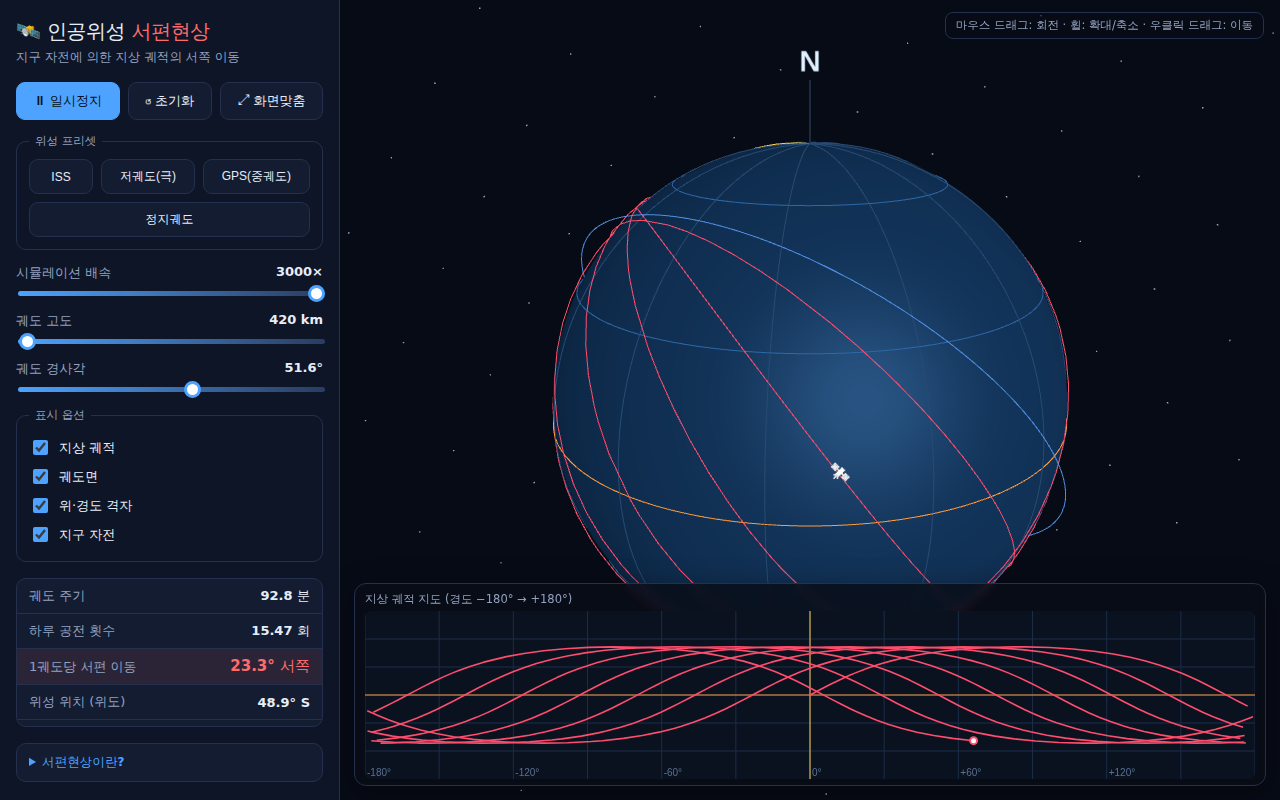
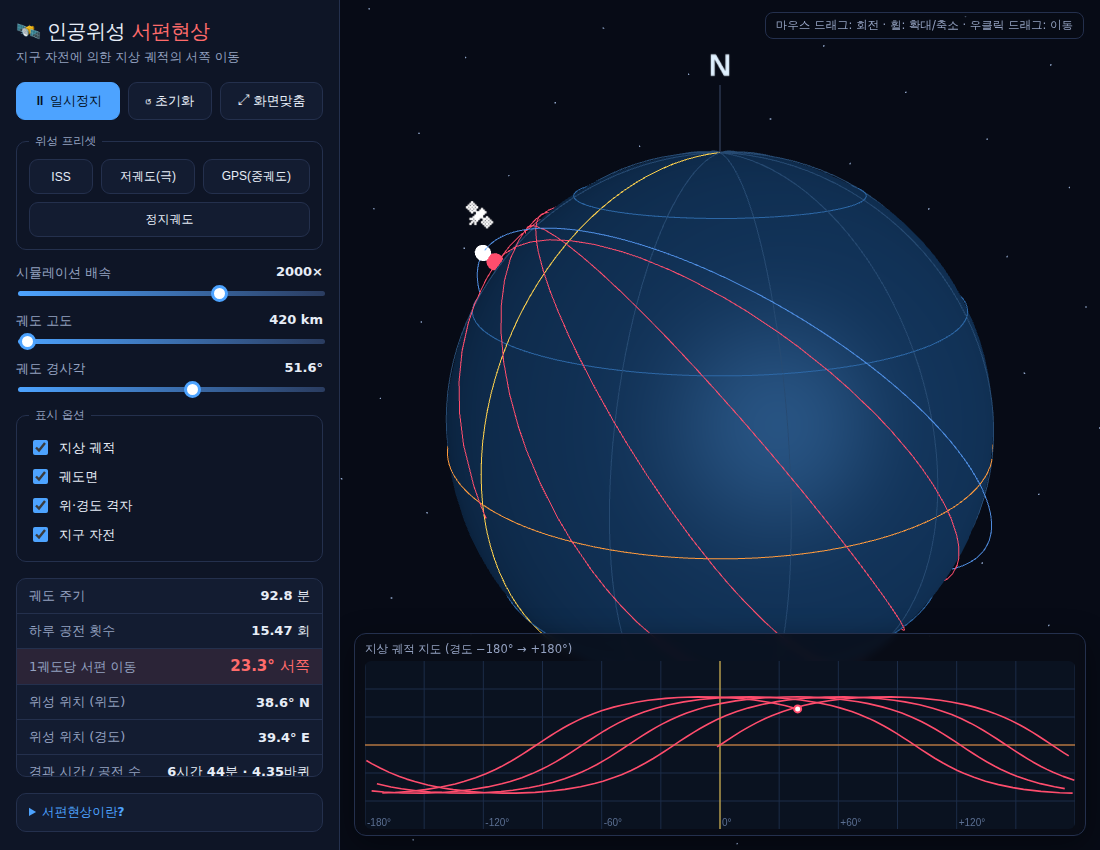
지상궤적이 위성 바로 아래에 찍히도록 좌표 변환 수정
버그: 지구 그룹은 +θ로 회전하는데 궤적 점의 경도는 (phiI - θ)로
저장하여, earthGroup 자식으로 렌더될 때 위성보다 2θ만큼 어긋난
엉뚱한 경로가 그려졌다. 또한 지구가 물리적으로 서→동이 아닌 반대로
자전하고 있었다.

수정: earthGroup.rotation.y = -θ 로 변경.
 - 지구가 실제처럼 서→동으로 자전
 - 지상궤적/서브위성 마커가 위성 바로 아래(sub-satellite point)에 정확히 표시
 - 서편 이동 방향도 올바르게 서쪽으로 유지

검증: 위성 방향벡터와 서브위성 마커 월드좌표의 내적 = 1.0000 (완전 일치)

Claude-Session: https://claude.ai/code/session_01K3yqfJiX4dPSuhepnJjrxY

diff --git a/js/app.js b/js/app.js
@@ -406,8 +406,11 @@ function animate(now) {
 
   if (state.playing) state.simTime += dtReal * state.speed;
 
+  // 지구는 서→동(동쪽)으로 자전한다. earthGroup의 자식으로 붙는 지상궤적 점이
+  // 위성 바로 아래에 정확히 찍히려면, 그룹 회전각은 경도 계산에 쓰는 thetaE의
+  // '부호 반대'여야 한다 (렌더 시 R_y(-thetaE)·(경도 phiI-thetaE) = 위성 경도 phiI).
   const thetaE = state.spin ? OMEGA_E * state.simTime : 0;
-  earthGroup.rotation.y = thetaE;
+  earthGroup.rotation.y = -thetaE;
 
   updateSatellite();
   controls.update();
